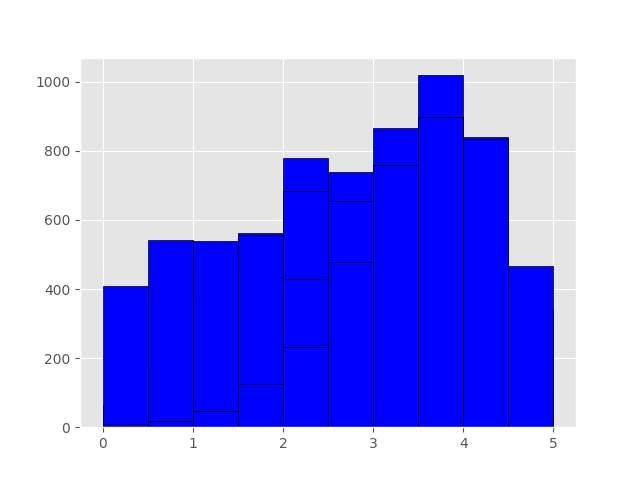
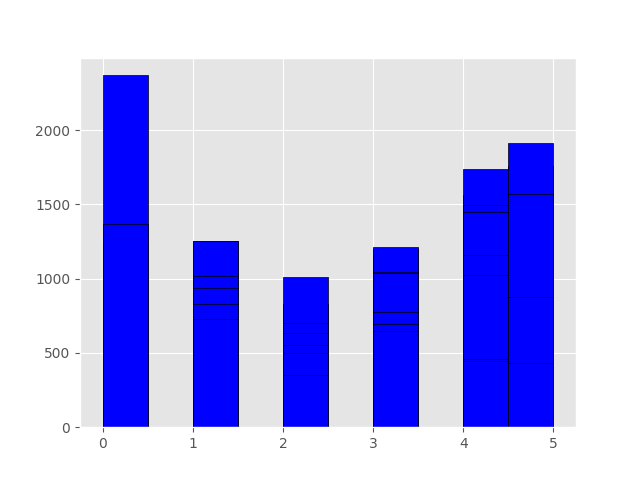
Experimenting with classification; debugging a lot of vectorizer code

diff --git a/models/baselines.py b/models/baselines.py
@@ -8,9 +8,10 @@ import numpy as np
 from sklearn.model_selection import KFold, ParameterGrid
 from sklearn.linear_model import LogisticRegression, SGDRegressor
 from sklearn.svm import LinearSVC
+from scipy.stats import mode
 
 def do_param_grid(grid, X_train, y_train, X_test, y_test, model):
-    best_score_ = 0.
+    best_score_ = -1.  # for r2 
     best_grid_ = None
     predictions = None
     for g in ParameterGrid(grid):
@@ -38,7 +39,7 @@ class Regressor:
                                   tol=1e-3,
                                   shuffle=True,
                                   random_state=self.seed,
-                                  verbose=1)
+                                  verbose=0)
         kf = KFold(n_splits=self.kfolds, shuffle=True, random_state=self.seed)
 
         predictions = dict()
@@ -62,6 +63,7 @@ class Regressor:
 
     def format_results(self, predictions, true_vals, row_indices):
         ### Define a multi-index with (cv-num, doc_idx)
+        print(predictions)
         list_of_cvs = [[i] * len(predictions[i]) for i in list(predictions.keys())]
         cv_nums = [item for sublist in list_of_cvs for item in sublist]
         doc_idxs = [item for sublist in list(row_indices.values()) for item in sublist]
@@ -80,7 +82,6 @@ class Regressor:
         return: dataframe indexed by class, columns by feature_names
         """
         dataframe = pd.DataFrame(features)
-        print(dataframe)
         dataframe.index = feature_names
 
         # sort by the first column, just because
@@ -92,8 +93,10 @@ class Classifier:
         self.method = params["prediction_method"]
         self.kfolds = params["k_folds"]
         self.seed = params["random_seed"]
-        self.param_grid = {"class_weight": ['balanced', None],
-                           "C": np.arange(0.05, 0.5, 0.05)}
+        #self.param_grid = {"class_weight": ['balanced', None],
+        #                   "C": np.arange(0.05, 1.0, 0.05)}
+        self.param_grid = {"class_weight": [None]}
+
 
     def cv_results(self, X, y):
         ### k-fold cross-validation: train on 90%, test on 10%; report all results
@@ -105,18 +108,21 @@ class Classifier:
             class_type = 'ovr' if num_classes == 2 else 'multinomial'
             self.model = LogisticRegression(random_state=self.seed, solver='sag', 
                                             multi_class=class_type, verbose=0,
-                                            tol=1e-4, max_iter=60)
+                                            tol=1e-3, max_iter=60)
         elif self.method == 'svm':
-            self.model = LinearSVC(dual=False, random_state=self.seed)
+            self.model = LinearSVC(C=1.0, class_weight=None, 
+                                   dual=False, random_state=self.seed)
         kf = KFold(n_splits=self.kfolds, shuffle=True, random_state=self.seed)
 
         predictions = dict()
         parameters = dict()
         indices = dict()
+        baselines = dict()
         features = np.zeros( ( num_classes, X.shape[1]) )
         for idx, (train_idx, test_idx) in enumerate(kf.split(X)):
             X_train, X_test = X[train_idx], X[test_idx]
             y_train, y_test = y_int[train_idx], y_int[test_idx]
+            naive_y = [mode(y_train).mode[0]] * len(y_test)
             parameter_iter, prediction_iter = do_param_grid(self.param_grid, 
                                                             X_train, y_train, 
                                                             X_test, y_test, 
@@ -125,23 +131,27 @@ class Classifier:
             predictions[idx] = prediction_iter
             parameters[idx] = parameter_iter
             indices[idx] = test_idx
+            baselines[idx] = naive_y
 
         features /= len(predictions)
 
-        return predictions, parameters, indices, features
+        return predictions, parameters, indices, features, baselines
 
-    def format_results(self, predictions, true_vals, row_indices):
+    def format_results(self, predictions, true_vals, baselines, row_indices):
         ### Define a multi-index with (cv-num, doc_idx)
         list_of_cvs = [[i] * len(predictions[i]) for i in list(predictions.keys())]
         cv_nums = [item for sublist in list_of_cvs for item in sublist]
         doc_idxs = [item for sublist in list(row_indices.values()) for item in sublist]
         vals = [item for sublist in list(predictions.values()) for item in sublist]
+        baseline_vals = [item for sublist in list(baselines.values()) for item in sublist]
         #doc_idxs = [item for sublist in list_of_ids for item in sublist]
         arrays = [cv_nums, doc_idxs]
         tuples = list(zip(*arrays))
         mindex = pd.MultiIndex.from_tuples(tuples, names=["CrossVal_fold", "Doc_index"])
 
-        list_of_dicts = [{"y": true_vals[i], "y_hat": vals[i]} for i in range(len(true_vals))]
+        list_of_dicts = [{"y": true_vals[i], 
+                          "y_hat": vals[i],
+                          "y_baseline": baseline_vals[i]} for i in range(len(true_vals))]
         return pd.DataFrame(list_of_dicts, index=mindex)
 
     def format_features(self, features,  feature_names):

diff --git a/scoring/message_level.py b/scoring/message_level.py
@@ -17,12 +17,16 @@ def calc_accuracy(predictions):
     cv_metrics = list()
     for cv_fold, cv_df in predictions.groupby(level=0):
         # accuracy
-        num_correct = 0
+        num_correct, base_correct = 0, 0
         scores = list()
         for mess_id, row in cv_df.iterrows():
             if row['y'] == row['y_hat']:
                 num_correct += 1
-        cv_metrics.append(( 1. * num_correct) / len(cv_df))
+            if row['y'] == row['y_baseline']:
+                base_correct += 1
+        perf = ( 1. * num_correct) / len(cv_df)
+        base = ( 1. * base_correct) / len(cv_df)
+        cv_metrics.append({"acc": perf, "base": base})
     return cv_metrics
 
 
@@ -56,20 +60,25 @@ if __name__ == '__main__':
 
     params = load_params(param_path)
 
-    for dir_ in os.listdir(pred_path):
-        print(dir_)
+    targets = params["target_cols"]
+
+    for target in targets:
         
-        predictions = pd.read_pickle(os.path.join(pred_path, dir_, "predictions.pkl"))
-        features = pd.read_pickle(os.path.join(pred_path, dir_, "features.pkl"))
+        predictions = pd.read_pickle(os.path.join(pred_path, target, "predictions.pkl"))
+        features = pd.read_pickle(os.path.join(pred_path, target, "features.pkl"))
 
         if params['prediction_task'] == 'classification':
             accuracies = calc_accuracy(predictions)
+            acc_avg = np.mean([fold["acc"] for fold in accuracies])
+            base_avg = np.mean([fold["base"] for fold in accuracies])
+            print("ACC: {}".format(acc_avg))
+            print("Baseline: {}".format(base_avg))
         elif params['prediction_task'] == 'regression':
             reg_metrics = calc_r2(predictions)
             #rsme = calc_rsme(predictions)
+            print("r2: {}".format(np.mean([fold["r2"] for fold in reg_metrics])))
         else:
             print("Invalid prediction_task parameter: {}".format(params["prediction_task"]))
 
-        print(reg_metrics)
         #print(rsme)
             

diff --git a/get_params.py b/get_params.py
@@ -5,11 +5,21 @@ import os
 import pandas as pd
 
 def add_baseline_params(params):
-    params['prediction_task'] = 'regression'  # regression
-    params['prediction_method'] = 'elasticnet'
+    params['prediction_task'] = 'classification'  # regression
+    params['prediction_method'] = 'svm'
+    """
     params['target_cols'] = ['MFQ_INGROUP_AVG', 'MFQ_AUTHORITY_AVG', 'MFQ_PURITY_AVG', 
                              'MFQ_FAIRNESS_AVG', 'MFQ_HARM_AVG']
-    params['k_folds'] = 10
+    """
+    params['target_cols'] = ['MFQ_math', 'MFQ_emotionally', 'MFQ_weak', 'MFQ_cruel',
+                             'MFQ_unfairly', 'MFQ_treated', 'MFQ_rights', 'MFQ_loyalty',
+                             'MFQ_betray', 'MFQ_lovecountry', 'MFQ_traditions', 'MFQ_respect',
+                             'MFQ_chaos', 'MFQ_disgusting', 'MFQ_traditions', 'MFQ_respect',
+                             'MFQ_animal', 'MFQ_kill', 'MFQ_compassion', 'MFQ_justice', 
+                             'MFQ_fairly', 'MFQ_rich', 'MFQ_team', 'MFQ_history', 
+                             'MFQ_family', 'MFQ_sexroles', 'MFQ_soldier', 'MFQ_kidrespect', 
+                             'MFQ_harmlessdg', 'MFQ_unnatural', 'MFQ_chastity']
+    params['k_folds'] = 3
 
 def add_data_params(params, project="MFQ-facebook"):
     params['text_col'] = 'fb_status_msg'
@@ -24,7 +34,7 @@ def add_data_params(params, project="MFQ-facebook"):
 
 def add_feature_params(params):
     # choices from ['tfidf', 'lda', 'bagofmeans', 'ddr', 'fasttext', 'infersent', "dictionary"]
-    params['feature_methods'] = [ 'tfidf']  #, 'lda', 'bagofmeans', 'ddr', 'fasttext', 'infersent', "dictionary"]
+    params['feature_methods'] = [ 'ddr']  #, 'lda', 'bagofmeans', 'ddr', 'fasttext', 'infersent', "dictionary"]
 
     # should be one of the dataframe's columns that contains the text
     params['feature_cols'] = list()

diff --git a/feature-gen/vectorizers/DDR.py b/feature-gen/vectorizers/DDR.py
@@ -26,16 +26,16 @@ word2vec_path = os.environ["WORD2VEC_PATH"]
 mfd_path = os.environ["MFD_PATH"]
 
 class DDRVectorizer(BaseEstimator, TransformerMixin):
-    def __init__(self, embedding_type,
+    def __init__(self, embedding_type, stop_words,
                  tokenizer, dictionary, similarity):
         self.embedding_type = embedding_type
+        self.stoplist = set(stop_words) if stop_words is not None else None
         self.tokenizer = tokenizer
         self.dictionary = dictionary
         if embedding_type == 'glove':
             self.embeddings_path = glove_path
         else:
             self.embeddings_path = word2vec_path
-        print(mfd_path)
         dict_path = mfd_path if dictionary == 'mfd' else None
         try:
             with open(dict_path, 'r') as fo:
@@ -71,7 +71,7 @@ class DDRVectorizer(BaseEstimator, TransformerMixin):
             else:
                 raise ValueError("Incorrect embedding_type specified; only possibilities are 'skipgram and 'GloVe'")
         if count <= min_threshold:
-            return np.zeros(embed_size), oov
+            return np.random.rand(embed_size), oov
         sentence = np.array(arrays)
         mean = np.mean(sentence, axis=0)
         return mean, oov
@@ -102,7 +102,8 @@ class DDRVectorizer(BaseEstimator, TransformerMixin):
             concepts.append(concept_mean)
         ddr_vectors = list()
         for sentence in raw_docs:
-            tokens = self.tokenizer(sentence)
+            if self.stoplist is not None:
+                tokens = list(set(self.tokenizer(sentence)) - self.stoplist)
             sentence_mean, oov = self.get_document_avg(tokens)    
             outputs = [self.similarity(sentence_mean, concept) for concept in concepts]
             ddr_vectors.append(outputs)

diff --git a/feature-gen/make_features.py b/feature-gen/make_features.py
@@ -75,14 +75,16 @@ def tfidf(**kwargs):
 
 def bagofmeans(**kwargs):
     return (BoMVectorizer(embedding_type=kwargs['bom_method'],
-                          tokenizer=kwargs['sent_tokenizer'] 
+                          tokenizer=kwargs['sent_tokenizer'], 
+                          stop_words=kwargs['stop_words']
                           )
-            , {'alias': bom_method})
+            , {'alias': kwargs["bom_method"]})
 
 def ddr(**kwargs): 
     sim = cosine_similarity if kwargs['comp_measure'] == 'cosine-sim' else None
     return (DDRVectorizer(embedding_type=kwargs['bom_method'],
                           tokenizer=kwargs['sent_tokenizer'],
+                          stop_words=kwargs['stop_words'],
                           dictionary=kwargs['dictionary'],
                           similarity=sim), 
             {'alias': "_".join([kwargs['bom_method'], kwargs['dictionary']])})
@@ -102,7 +104,8 @@ def dictionary(**kwargs):
             {"alias": "Dictionary_" + dictionary})
 
 def fasttext(**kwargs):
-    return (FastTextVectorizer(tokenizer=kwargs["sent_tokenizer"]), 
+    return (FastTextVectorizer(tokenizer=kwargs["sent_tokenizer"],
+                               stop_words=kwargs["stop_words"]), 
             {'alias': "FastText_wiki"})
 
 def load_params(f):
@@ -112,7 +115,10 @@ def load_params(f):
 def collect_features(dataframe, params):
     doc_index = list(dataframe.index)
     sent_tokenizer = toks[params["tokenize"]]
-    stopword_list = stoplists[params["stopword_list"]]
+    try:
+        stopword_list = stoplists[params["stopword_list"]]
+    except KeyError:
+        stopword_list = None
 
     transformers = list()
     for method in params['feature_methods']:

diff --git a/models/run_base.py b/models/run_base.py
@@ -2,11 +2,6 @@ import os, json
 import pandas as pd
 import numpy as np
 
-import matplotlib
-matplotlib.use('agg')
-import matplotlib.pyplot as plt
-plt.style.use('ggplot')
-
 from baselines import Classifier, Regressor
 
 param_path = os.environ['PARAMS']
@@ -29,8 +24,6 @@ if __name__ == '__main__':
        
         X = features.values
         y = target_df[target].values
-        plt.hist(y, color='blue', edgecolor='black')
-        plt.savefig("thing.png")
         feature_names = features.columns.tolist()
         instance_names = list(features.index)
 
@@ -41,10 +34,13 @@ if __name__ == '__main__':
         else:
             raise ValueError("Invalid prediction_task; candidates: classification|regression")
         
-        predictions, param_sets, index_dict, features = predictor.cv_results(X, y)
+        predictions, param_sets, index_dict, features, baselines = predictor.cv_results(X, y)
+        
         row_indices = {k:[instance_names[keys] for keys in v] for k,v in index_dict.items()}
+        print(len(baselines))
+        print(len(y))
         pred_series = predictor.format_results(predictions, 
-                                               y, 
+                                               y, baselines,
                                                row_indices)
         if not os.path.exists(os.path.join(prediction_path, target)):
             os.makedirs(os.path.join(prediction_path, target))

diff --git a/feature-gen/vectorizers/bag_of_means.py b/feature-gen/vectorizers/bag_of_means.py
@@ -16,8 +16,6 @@ def load_glove_from_file(fname, vocab=None):
 ### End Helper ###
 
 import sys
-sys.path.append("../..")
-
 
 import os, re, json
 import numpy as np
@@ -28,14 +26,15 @@ from sklearn.model_selection import GridSearchCV
 
 from gensim.models import KeyedVectors as kv
 class BoMVectorizer(BaseEstimator, TransformerMixin):
-    def __init__(self, embedding_type, tokenizer, ):
+    def __init__(self, embedding_type, tokenizer, stop_words):
         self.embedding_type = embedding_type
         self.tokenizer = tokenizer
+        self.stoplist = set(stop_words) if stop_words is not None else None
 
         if embedding_type == 'glove':
-            self.embeddings_path = glove_path
+            self.embeddings_path = os.environ["GLOVE_PATH"]
         else:
-            self.embeddings_path = word2vec_path
+            self.embeddings_path = os.environ["WORD2VEC_PATH"]
     
     def get_sentence_avg(self, tokens, embed_size=300, min_threshold=0):
         arrays = list()
@@ -86,6 +85,8 @@ class BoMVectorizer(BaseEstimator, TransformerMixin):
         avged_docs = list()
         for sentence in raw_docs:
             tokens = self.tokenizer(sentence)
+            if self.stoplist is not None:
+                tokens = list(set(tokens) - self.stoplist)
             sentence_mean, out_of_vocabulary = self.get_sentence_avg(tokens)
             avged_docs.append(sentence_mean)
         X = np.array(avged_docs)

diff --git a/feature-gen/vectorizers/fasttext.py b/feature-gen/vectorizers/fasttext.py
@@ -3,7 +3,6 @@ import numpy as np
 import json
 from sys import stdout
 import sys
-sys.path.append('../..')
 
 from sklearn.base import BaseEstimator, TransformerMixin
 
@@ -14,9 +13,10 @@ except ModuleNotFoundError:
     import fastText
 
 class FastTextVectorizer(BaseEstimator, TransformerMixin):
-    def __init__(self, tokenizer=None):
+    def __init__(self, tokenizer, stop_words):
         self.tokenizer = tokenizer
-        self.model_path = fasttext_path
+        self.remove_regex = re.compile(r"(?:{})".format("|".join(stop_words)))
+        self.model_path = os.environ["FASTTEXT_PATH"]
         if not os.path.isfile(self.model_path):
             print("Couldn't find fasttext .bin file in %s. Exiting" % self.model_path)
             exit(1)
@@ -28,9 +28,12 @@ class FastTextVectorizer(BaseEstimator, TransformerMixin):
 
     def transform(self, X, y=None):
         sentences = list()
+
         print("Encoding sentences with FastText")
         for i, sent in enumerate(X):
             stdout.write("\r{:.2%} done".format(float(i) / len(X)))
             stdout.flush()
+            if self.remove_regex is not None:
+                sent = self.remove_regex.sub(" ", sent)
             sentences.append(list(self.trained_model.get_sentence_vector(sent)))
         return np.array(sentences, dtype='float32')
